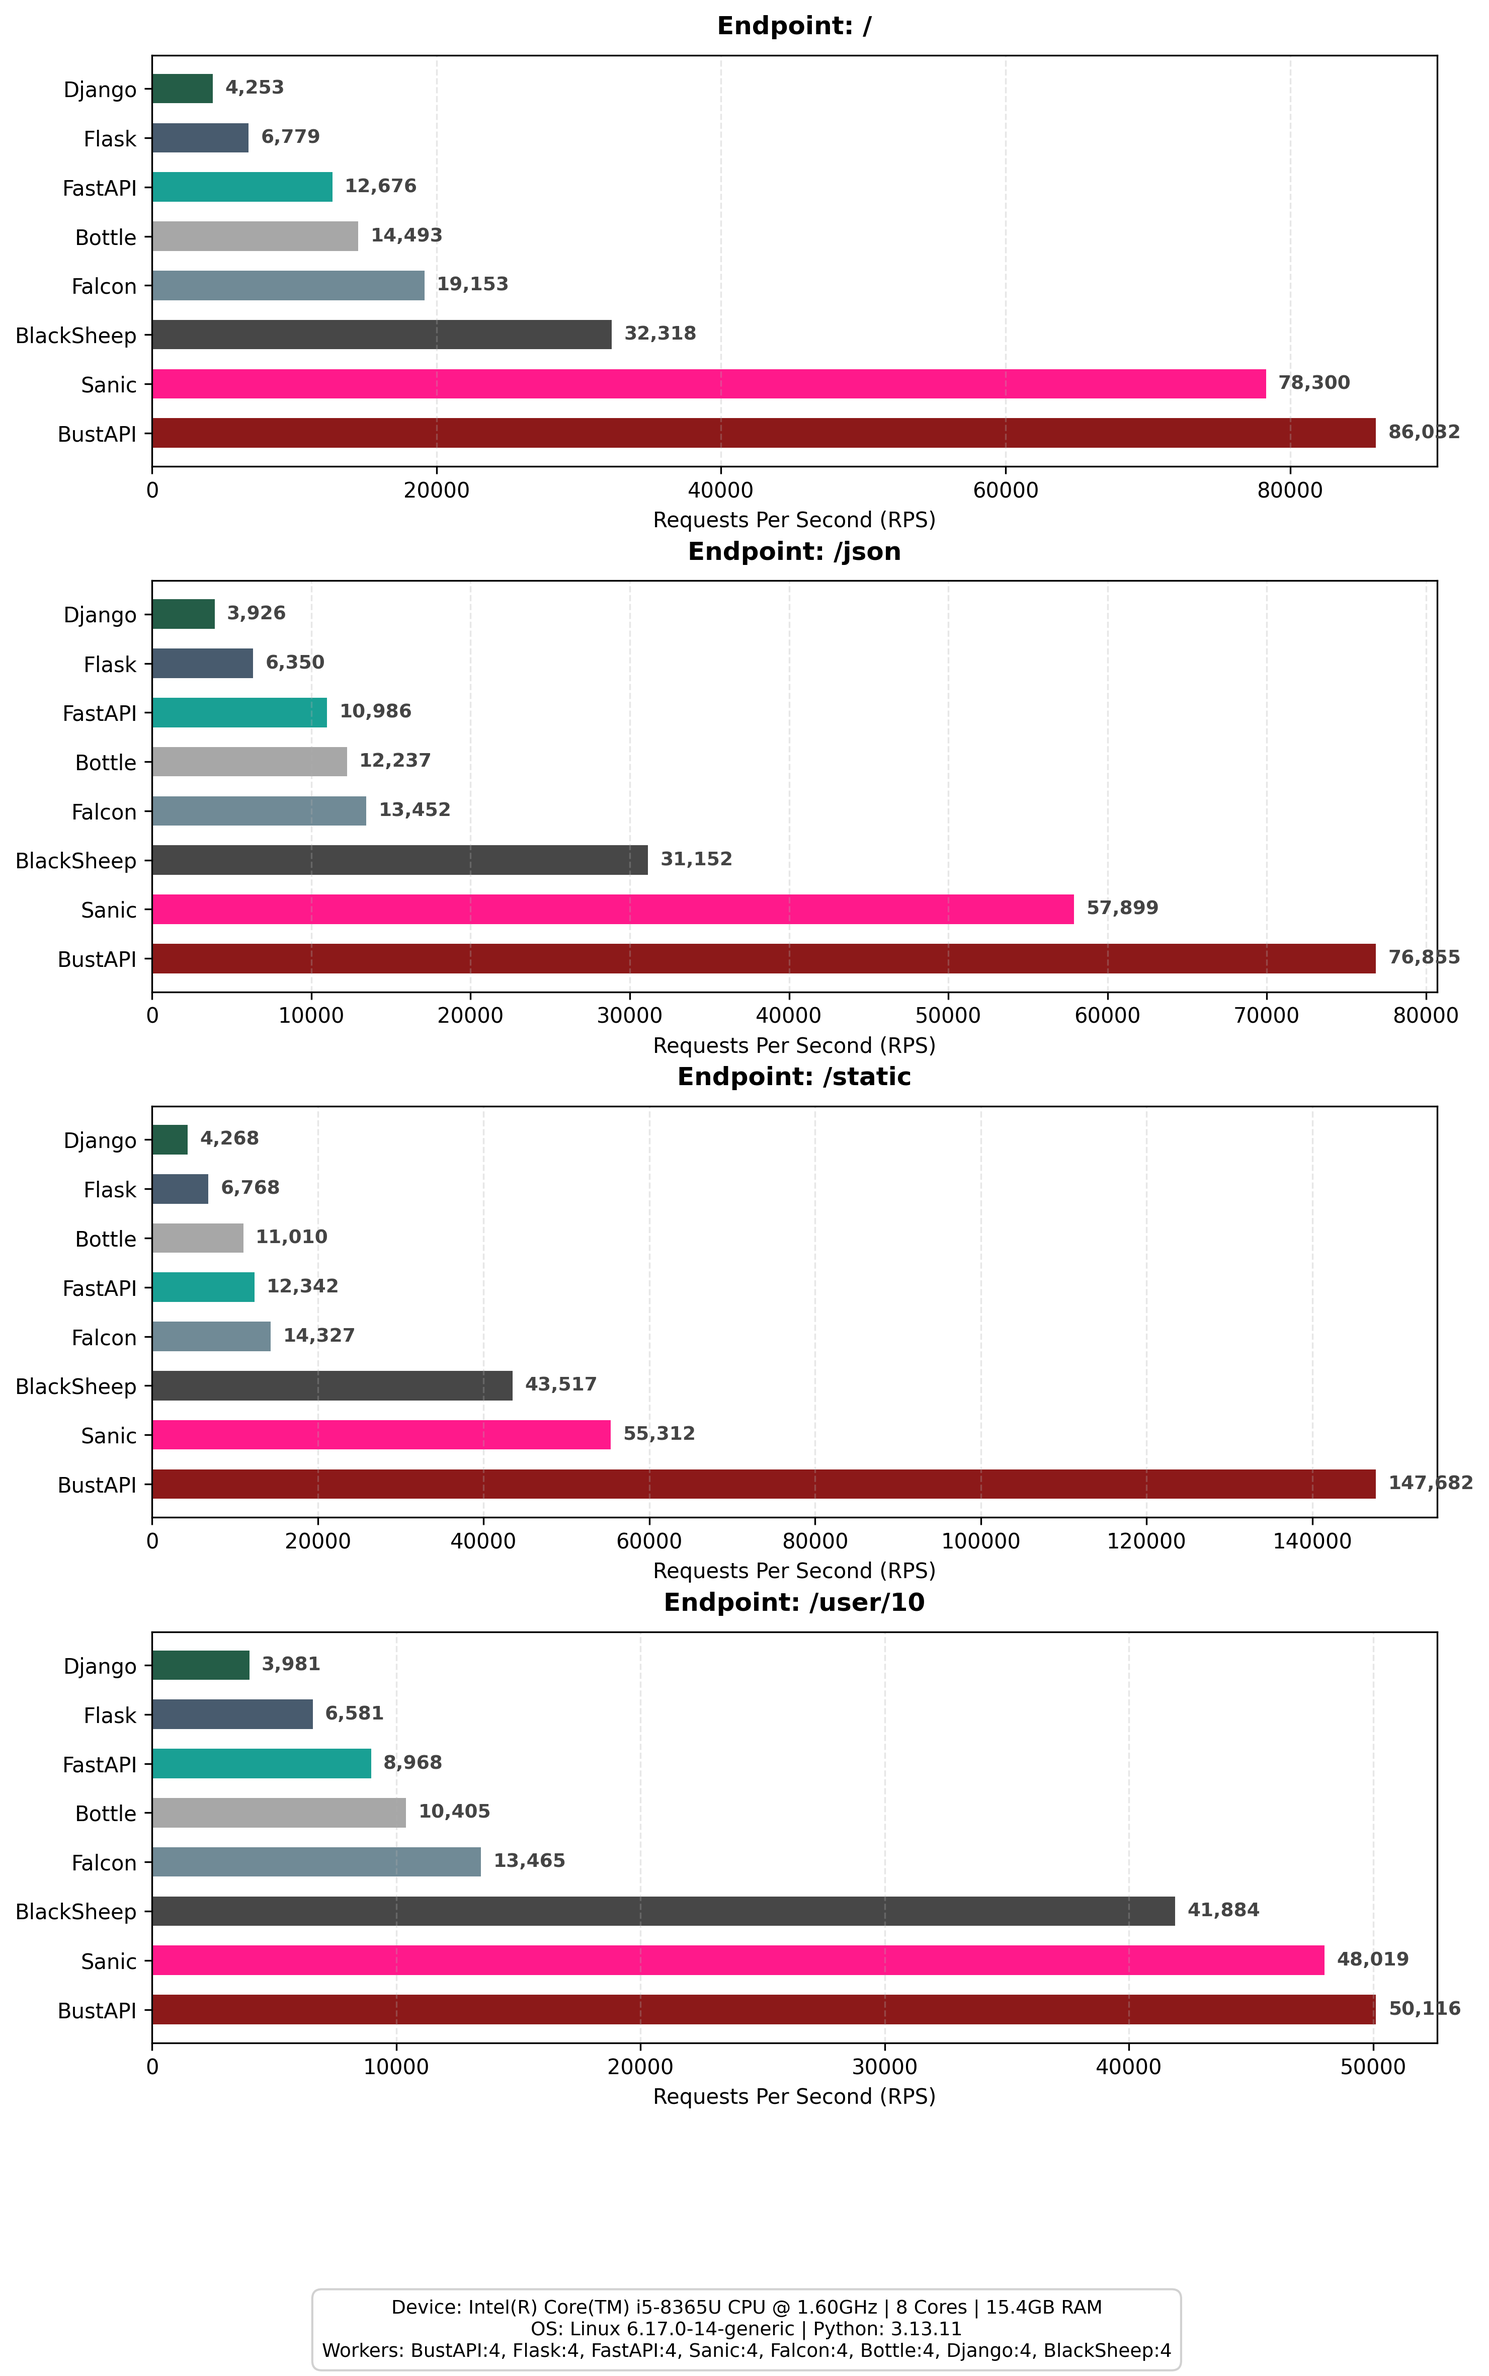
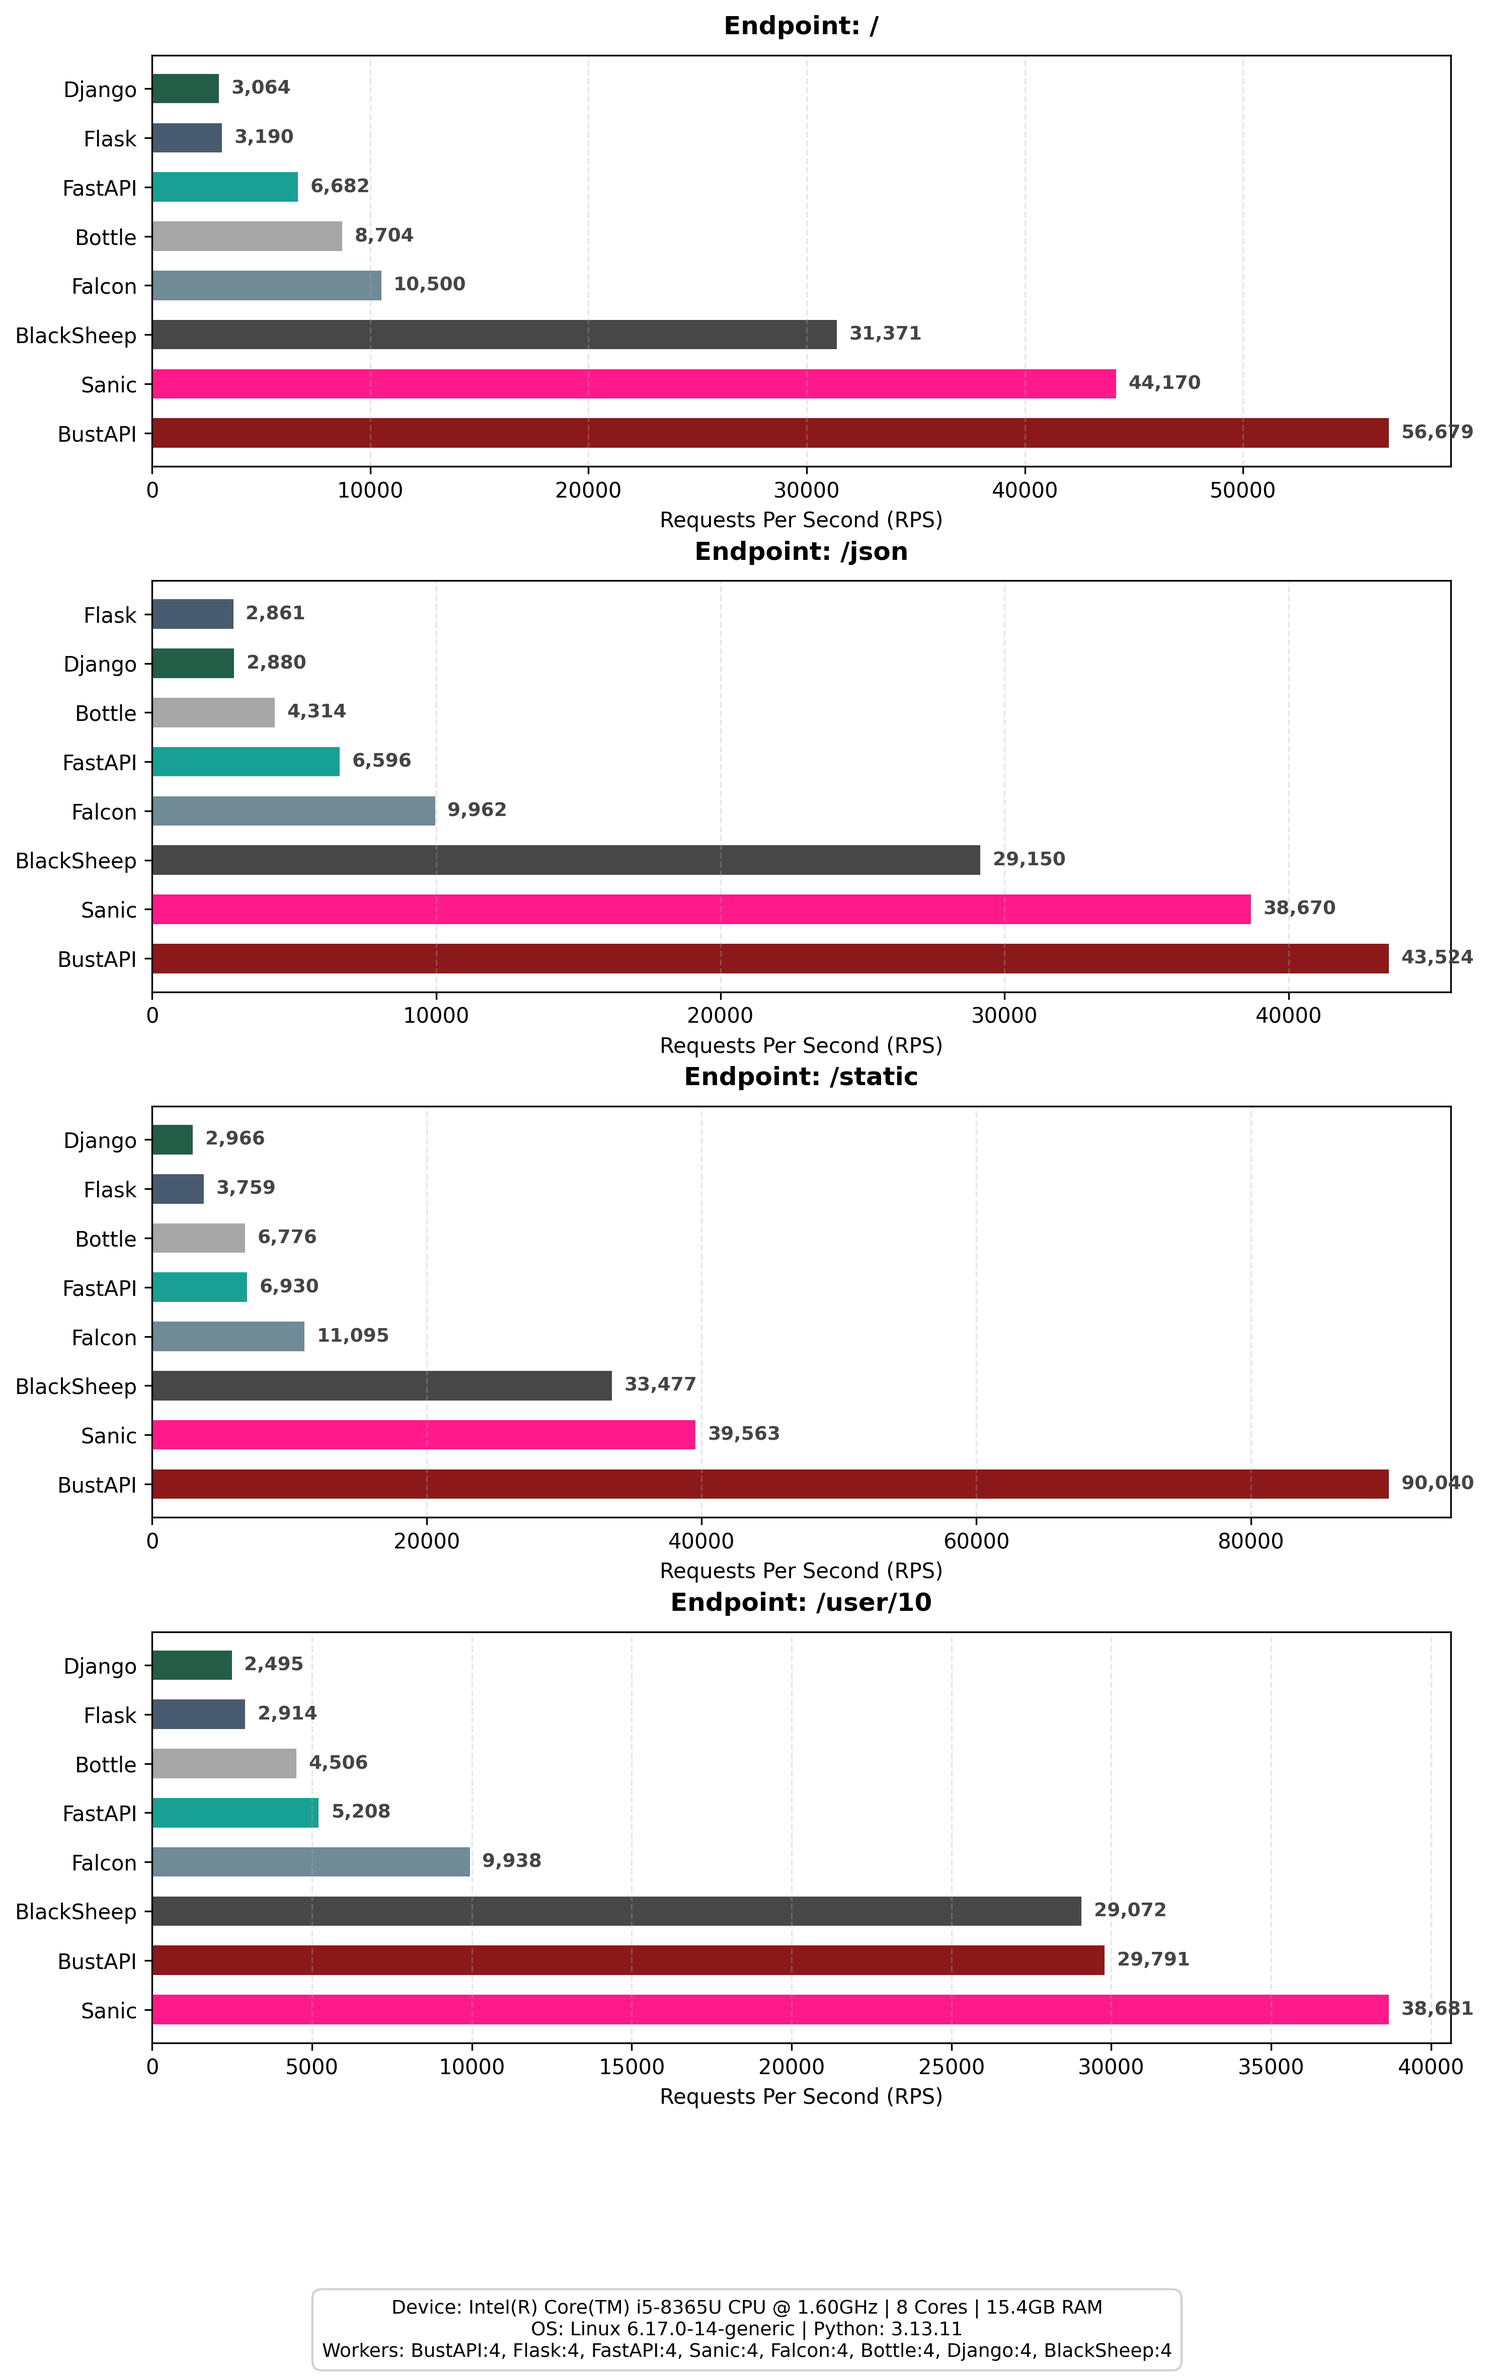
perf: Optimize Turbo Route param extraction (avoid per-request allocation)

diff --git a/benchmarks/quick_bench.py b/benchmarks/quick_bench.py
@@ -1,109 +1,88 @@
-#!/usr/bin/env python3
-"""
-Quick BustAPI benchmark testing all optimization features:
-1. Radix tree router (O(log n) matching)
-2. Rust session serialization
-3. Pre-compiled route patterns with type validation
-"""
+import os
+import subprocess
+import time
+import signal
+import re
+import sys
 
+CODE_BUSTAPI = """
 from bustapi import BustAPI
-from bustapi.bustapi_core import Signer
-
-
-# Test Rust session serialization performance
-def test_session_serialization():
-    """Test the new Rust session encode/decode"""
-    signer = Signer("supersecretkey123")
-
-    # Test data
-    session_data = {
-        "user_id": 12345,
-        "username": "testuser",
-        "roles": ["admin", "user"],
-        "preferences": {"theme": "dark", "lang": "en"},
-        "logged_in": True,
-    }
-
-    # Encode (Dict → JSON → Base64 → Sign)
-    import time
-
-    iterations = 10000
-
-    start = time.perf_counter()
-    for _ in range(iterations):
-        encoded = signer.encode_session("session", session_data)
-    encode_time = time.perf_counter() - start
-
-    # Decode (Verify → Base64 → JSON → Dict)
-    start = time.perf_counter()
-    for _ in range(iterations):
-        decoded = signer.decode_session("session", encoded)
-    decode_time = time.perf_counter() - start
-
-    print(f"   Encode: {iterations / encode_time:,.0f} ops/sec")
-    print(f"   Decode: {iterations / decode_time:,.0f} ops/sec")
-    return encoded, decoded
-
-
 app = BustAPI()
 
-
-# Static routes - turbo (fastest)
+# Turbo routes - zero overhead
 @app.turbo_route("/")
 def index():
     return "Hello, World!"
-
 
 @app.turbo_route("/json")
 def json_endpoint():
     return {"hello": "world"}
 
+@app.route("/user/<id>")
+def user(id):
+    return {"user_id": int(id)}
+    
+# Typed turbo route
+@app.turbo_route("/typed/<int:id>")
+def typed_user(id):
+    return {"id": id}
 
-# Dynamic routes with pre-compiled type validation
-@app.route("/user/<int:id>")
-def user_by_id(id: int):
-    return {"user_id": id}
+@app.static_route("/static")
+def static_endpoint():
+    return "Static Content"
 
-
-@app.route("/user/<name>")
-def user_by_name(name: str):
-    return {"username": name}
-
-
-@app.route("/product/<float:price>")
-def product_price(price: float):
-    return {"price": price}
-
-
-@app.route("/files/<path:filepath>")
-def serve_files(filepath: str):
-    return {"filepath": filepath}
+if __name__ == "__main__":
+    app.run(host="127.0.0.1", port=8000, workers=4, debug=False)
+"""
 
 
-# Many routes to test radix tree performance
-for i in range(50):
+def run_wrk(endpoint):
+    result = subprocess.run(
+        [
+            "wrk",
+            "-t4",
+            "-c100",
+            "-d3s",
+            "--latency",
+            f"http://127.0.0.1:8000{endpoint}",
+        ],
+        capture_output=True,
+        text=True,
+    )
+    output = result.stdout
+    rps_match = re.search(r"Requests/sec:\s+([\d.]+)", output)
+    rps = float(rps_match.group(1)) if rps_match else 0
+    print(f"{endpoint}: {rps:,.2f} req/sec")
+    return rps
 
-    @app.route(f"/api/v1/resource{i}/<int:id>")
-    def resource_handler(id: int, num=i):
-        return {"resource": num, "id": id}
+
+def main():
+    print("🚀 Quick Bench BustAPI...")
+    with open("temp_quick_bustapi.py", "w") as f:
+        f.write(CODE_BUSTAPI)
+
+    # Kill existing
+    subprocess.run("fuser -k 8000/tcp", shell=True, stderr=subprocess.DEVNULL)
+    time.sleep(1)
+
+    proc = subprocess.Popen(
+        ["python", "temp_quick_bustapi.py"],
+        stdout=None,
+        stderr=None,
+    )
+    time.sleep(3)
+
+    try:
+        run_wrk("/")
+        run_wrk("/json")
+        run_wrk("/typed/10")
+        run_wrk("/static")
+    finally:
+        os.kill(proc.pid, signal.SIGTERM)
+        time.sleep(1)
+        if os.path.exists("temp_quick_bustapi.py"):
+            os.remove("temp_quick_bustapi.py")
 
 
 if __name__ == "__main__":
-    print("=" * 60)
-    print("🚀 BustAPI Quick Benchmark (All Optimizations)")
-    print("=" * 60)
-
-    print(f"\n📊 Routes registered: {len(app.url_map)}")
-    print("   - Static turbo routes: 2")
-    print("   - Dynamic typed routes: 4")
-    print("   - API resource routes: 50")
-
-    print("\n⚡ Testing Rust Session Serialization...")
-    test_session_serialization()
-
-    print("\n🌐 Starting server...")
-    print("   Run: wrk -t4 -c100 -d10s http://127.0.0.1:8080/json")
-    print("   Run: wrk -t4 -c100 -d10s http://127.0.0.1:8080/user/123")
-    print("   Run: wrk -t4 -c100 -d10s http://127.0.0.1:8080/api/v1/resource25/999")
-
-    app.run(host="127.0.0.1", port=8080, workers=4, debug=False)
+    main()

diff --git a/src/bindings/typed_turbo.rs b/src/bindings/typed_turbo.rs
@@ -70,6 +70,8 @@ pub struct PyTypedTurboHandler {
     pattern: String,
     /// (param_name, param_type) in order of appearance in route
     param_specs: Vec<(String, ParamType)>,
+    /// Pre-split pattern parts to avoid splitting on every request
+    pattern_parts: Vec<String>,
     /// Cache TTL in seconds (0 = no caching)
     cache_ttl: u64,
     /// Response cache: path -> cached response
@@ -90,11 +92,19 @@ impl PyTypedTurboHandler {
     ) -> Self {
         // Parse pattern to get param order
         let param_specs = Self::parse_pattern(&pattern, &param_types);
+        
+        // Pre-calculate pattern parts
+        let pattern_parts: Vec<String> = pattern
+            .trim_matches('/')
+            .split('/')
+            .map(|s| s.to_string())
+            .collect();
 
         Self {
             handler,
             pattern,
             param_specs,
+            pattern_parts,
             cache_ttl,
             cache: RwLock::new(HashMap::new()),
         }
@@ -105,7 +115,7 @@ impl PyTypedTurboHandler {
         pattern: &str,
         param_types: &HashMap<String, String>,
     ) -> Vec<(String, ParamType)> {
-        let mut specs = Vec::new();
+        let mut specs = Vec::new(); // Optimized below
 
         for part in pattern.split('/') {
             if part.starts_with('<') && part.ends_with('>') {
@@ -130,13 +140,17 @@ impl PyTypedTurboHandler {
 
     /// Extract and convert parameters from request path
     fn extract_params(&self, path: &str) -> Result<HashMap<String, TypedValue>, String> {
-        let pattern_parts: Vec<&str> = self.pattern.trim_matches('/').split('/').collect();
-        let path_parts: Vec<&str> = path.trim_matches('/').split('/').collect();
+        // FAST PATH: No params to extract
+        if self.param_specs.is_empty() {
+             return Ok(HashMap::new());
+        }
 
         let mut params = HashMap::new();
         let mut spec_idx = 0;
+        
+        let mut path_segments = path.trim_matches('/').split('/');
 
-        for (i, pp) in pattern_parts.iter().enumerate() {
+        for pp in &self.pattern_parts {
             if pp.starts_with('<') && pp.ends_with('>') {
                 if spec_idx >= self.param_specs.len() {
                     return Err("Parameter spec mismatch".to_string());
@@ -147,16 +161,18 @@ impl PyTypedTurboHandler {
 
                 // Handle path wildcard (matches rest of path)
                 if matches!(param_type, ParamType::Path) {
-                    let remaining: String = path_parts[i..].join("/");
-                    params.insert(name.clone(), TypedValue::Str(remaining));
+                    // Consume remaining segments
+                    let remaining: Vec<&str> = path_segments.collect();
+                    let remaining_str = remaining.join("/");
+                    params.insert(name.clone(), TypedValue::Str(remaining_str));
                     break;
                 }
 
-                if i >= path_parts.len() {
-                    return Err(format!("Missing path segment for parameter '{}'", name));
-                }
-
-                let value = path_parts[i];
+                let value = match path_segments.next() {
+                    Some(v) => v,
+                    None => return Err(format!("Missing path segment for parameter '{}'", name)),
+                };
+                
                 let typed_value = match param_type {
                     ParamType::Int => {
                         // Try fast i64 parse first
@@ -188,6 +204,10 @@ impl PyTypedTurboHandler {
                 };
 
                 params.insert(name.clone(), typed_value);
+            } else {
+                 // Static segment, just advance path iterator
+                 // Note: Router already matched this, so we assume it matches
+                 path_segments.next();
             }
         }
 

diff --git a/benchmarks/README.md b/benchmarks/README.md
@@ -1,6 +1,6 @@
 # ⚡ Ultimate Web Framework Benchmark
 
-> **Date:** 2026-02-10 | **Tool:** `wrk`
+> **Date:** 2026-02-11 | **Tool:** `wrk`
 
 ## 🖥 System Spec
 - **OS:** `Linux 6.17.0-14-generic`
@@ -12,26 +12,26 @@
 
 | Endpoint | Metrics | BustAPI (4w) | Flask (4w) | FastAPI (4w) | Sanic (4w) | Falcon (4w) | Bottle (4w) | Django (4w) | BlackSheep (4w) |
 | :--- | :--- | :---: | :---: | :---: | :---: | :---: | :---: | :---: | :---: |
-| **`/`** | 🚀 RPS | 🥇 **86,033** | **6,779** | **12,676** | **78,300** | **19,153** | **14,494** | **4,253** | **32,319** |
-|  | ⏱ Avg Latency | 1.20ms | 14.57ms | 8.03ms | 1.32ms | 5.04ms | 6.61ms | 23.17ms | 3.20ms |
-|  | 📉 Max Latency | 21.63ms | 40.73ms | 44.62ms | 16.64ms | 24.90ms | 29.35ms | 44.76ms | 32.85ms |
-|  | 📦 Transfer | 10.58 MB/s | 1.07 MB/s | 1.78 MB/s | 8.74 MB/s | 2.89 MB/s | 2.29 MB/s | 0.75 MB/s | 4.53 MB/s |
-|  | 🔥 CPU Usage | 672% | 381% | 377% | 377% | 379% | 363% | 365% | 344% |
-|  | 🧠 RAM Usage | 166.1 MB | 159.0 MB | 251.3 MB | 240.7 MB | 147.8 MB | 125.8 MB | 189.1 MB | 217.0 MB |
+| **`/`** | 🚀 RPS | 🥇 **56,680** | **3,190** | **6,682** | **44,171** | **10,500** | **8,704** | **3,065** | **31,372** |
+|  | ⏱ Avg Latency | 1.79ms | 30.87ms | 15.43ms | 2.44ms | 9.23ms | 11.14ms | 32.01ms | 3.30ms |
+|  | 📉 Max Latency | 12.62ms | 71.00ms | 116.35ms | 74.58ms | 38.88ms | 44.49ms | 64.05ms | 38.21ms |
+|  | 📦 Transfer | 6.97 MB/s | 0.51 MB/s | 0.94 MB/s | 4.93 MB/s | 1.58 MB/s | 1.38 MB/s | 0.54 MB/s | 4.40 MB/s |
+|  | 🔥 CPU Usage | 361% | 353% | 364% | 378% | 344% | 348% | 356% | 366% |
+|  | 🧠 RAM Usage | 158.7 MB | 157.2 MB | 248.5 MB | 239.4 MB | 147.5 MB | 125.0 MB | 189.5 MB | 216.7 MB |
 | | | --- | --- | --- | --- | --- | --- | --- | --- |
-| **`/json`** | 🚀 RPS | 🥇 **76,855** | **6,350** | **10,986** | **57,900** | **13,453** | **12,238** | **3,926** | **31,152** |
-|  | ⏱ Avg Latency | 1.34ms | 15.54ms | 9.13ms | 1.71ms | 7.20ms | 7.79ms | 25.13ms | 3.28ms |
-|  | 📉 Max Latency | 14.46ms | 51.84ms | 33.16ms | 29.91ms | 39.38ms | 20.39ms | 40.47ms | 24.69ms |
-|  | 📦 Transfer | 9.16 MB/s | 0.99 MB/s | 1.49 MB/s | 6.18 MB/s | 2.09 MB/s | 1.90 MB/s | 0.68 MB/s | 4.22 MB/s |
-|  | 🔥 CPU Usage | 368% | 375% | 375% | 766% | 380% | 366% | 365% | 369% |
-|  | 🧠 RAM Usage | 164.1 MB | 159.1 MB | 252.7 MB | 240.8 MB | 148.0 MB | 126.1 MB | 189.3 MB | 217.6 MB |
+| **`/json`** | 🚀 RPS | 🥇 **43,525** | **2,861** | **6,596** | **38,670** | **9,962** | **4,315** | **2,881** | **29,151** |
+|  | ⏱ Avg Latency | 2.42ms | 34.13ms | 15.53ms | 2.60ms | 9.54ms | 21.92ms | 33.80ms | 3.38ms |
+|  | 📉 Max Latency | 50.97ms | 87.76ms | 110.67ms | 21.32ms | 31.26ms | 70.79ms | 69.59ms | 34.10ms |
+|  | 📦 Transfer | 5.19 MB/s | 0.44 MB/s | 0.89 MB/s | 4.13 MB/s | 1.55 MB/s | 0.67 MB/s | 0.50 MB/s | 3.95 MB/s |
+|  | 🔥 CPU Usage | 338% | 346% | 363% | 377% | 364% | 279% | 348% | 638% |
+|  | 🧠 RAM Usage | 158.3 MB | 157.3 MB | 249.5 MB | 239.5 MB | 147.7 MB | 125.3 MB | 189.5 MB | 217.4 MB |
 | | | --- | --- | --- | --- | --- | --- | --- | --- |
-| **`/user/10`** | 🚀 RPS | 🥇 **50,117** | **6,581** | **8,968** | **48,019** | **13,465** | **10,405** | **3,982** | **41,885** |
-|  | ⏱ Avg Latency | 2.01ms | 15.00ms | 11.18ms | 2.12ms | 7.04ms | 9.19ms | 24.71ms | 2.45ms |
-|  | 📉 Max Latency | 12.68ms | 40.60ms | 40.73ms | 41.18ms | 13.81ms | 22.39ms | 45.71ms | 25.22ms |
-|  | 📦 Transfer | 5.83 MB/s | 1.00 MB/s | 1.19 MB/s | 4.99 MB/s | 2.05 MB/s | 1.59 MB/s | 0.68 MB/s | 5.55 MB/s |
-|  | 🔥 CPU Usage | 364% | 383% | 364% | 382% | 383% | 365% | 394% | 382% |
-|  | 🧠 RAM Usage | 163.2 MB | 159.1 MB | 253.1 MB | 240.9 MB | 148.1 MB | 126.4 MB | 189.3 MB | 218.1 MB |
+| **`/user/10`** | 🚀 RPS | **29,792** | **2,914** | **5,208** | 🥇 **38,681** | **9,938** | **4,506** | **2,495** | **29,072** |
+|  | ⏱ Avg Latency | 3.50ms | 33.59ms | 20.14ms | 2.57ms | 9.59ms | 21.18ms | 39.46ms | 3.45ms |
+|  | 📉 Max Latency | 21.83ms | 111.86ms | 111.20ms | 17.68ms | 24.16ms | 122.56ms | 92.58ms | 36.46ms |
+|  | 📦 Transfer | 3.47 MB/s | 0.44 MB/s | 0.69 MB/s | 4.02 MB/s | 1.52 MB/s | 0.69 MB/s | 0.42 MB/s | 3.85 MB/s |
+|  | 🔥 CPU Usage | 312% | 339% | 353% | 384% | 635% | 293% | 319% | 380% |
+|  | 🧠 RAM Usage | 160.6 MB | 157.3 MB | 250.8 MB | 239.5 MB | 147.7 MB | 125.6 MB | 189.5 MB | 217.9 MB |
 | | | --- | --- | --- | --- | --- | --- | --- | --- |
 
 ## 📊 Performance Comparison
